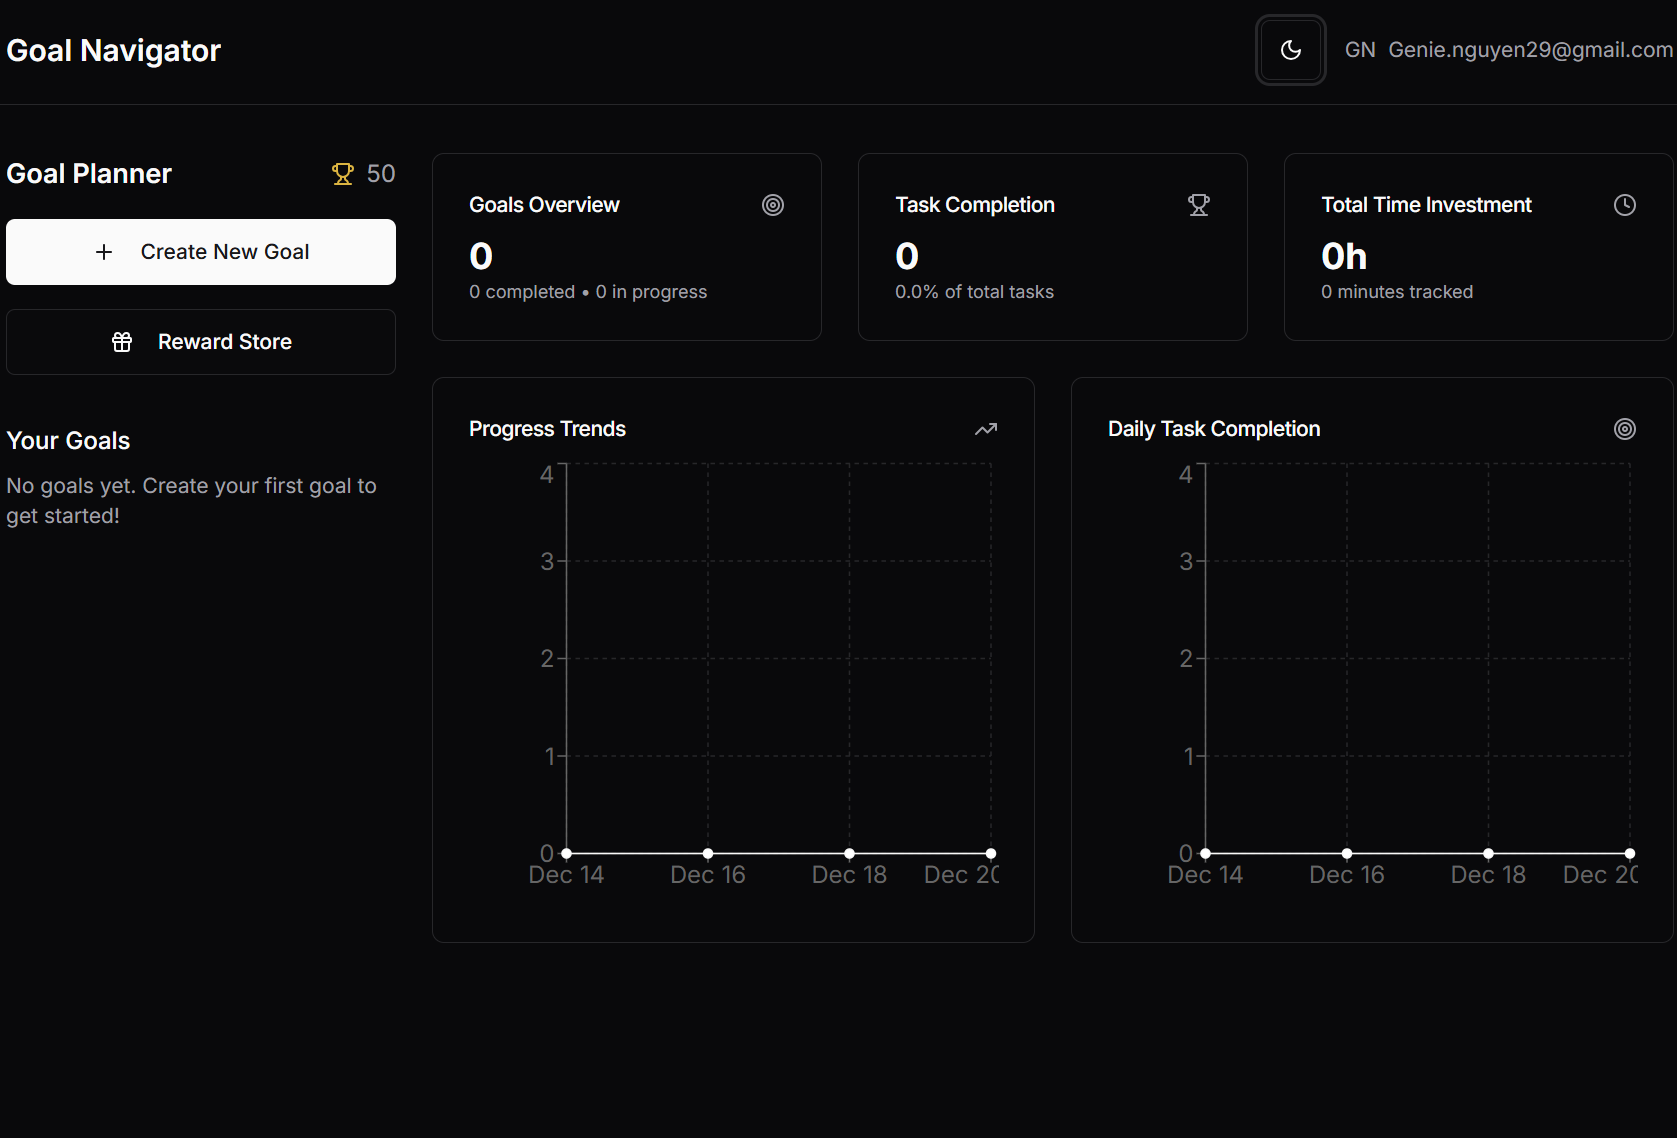
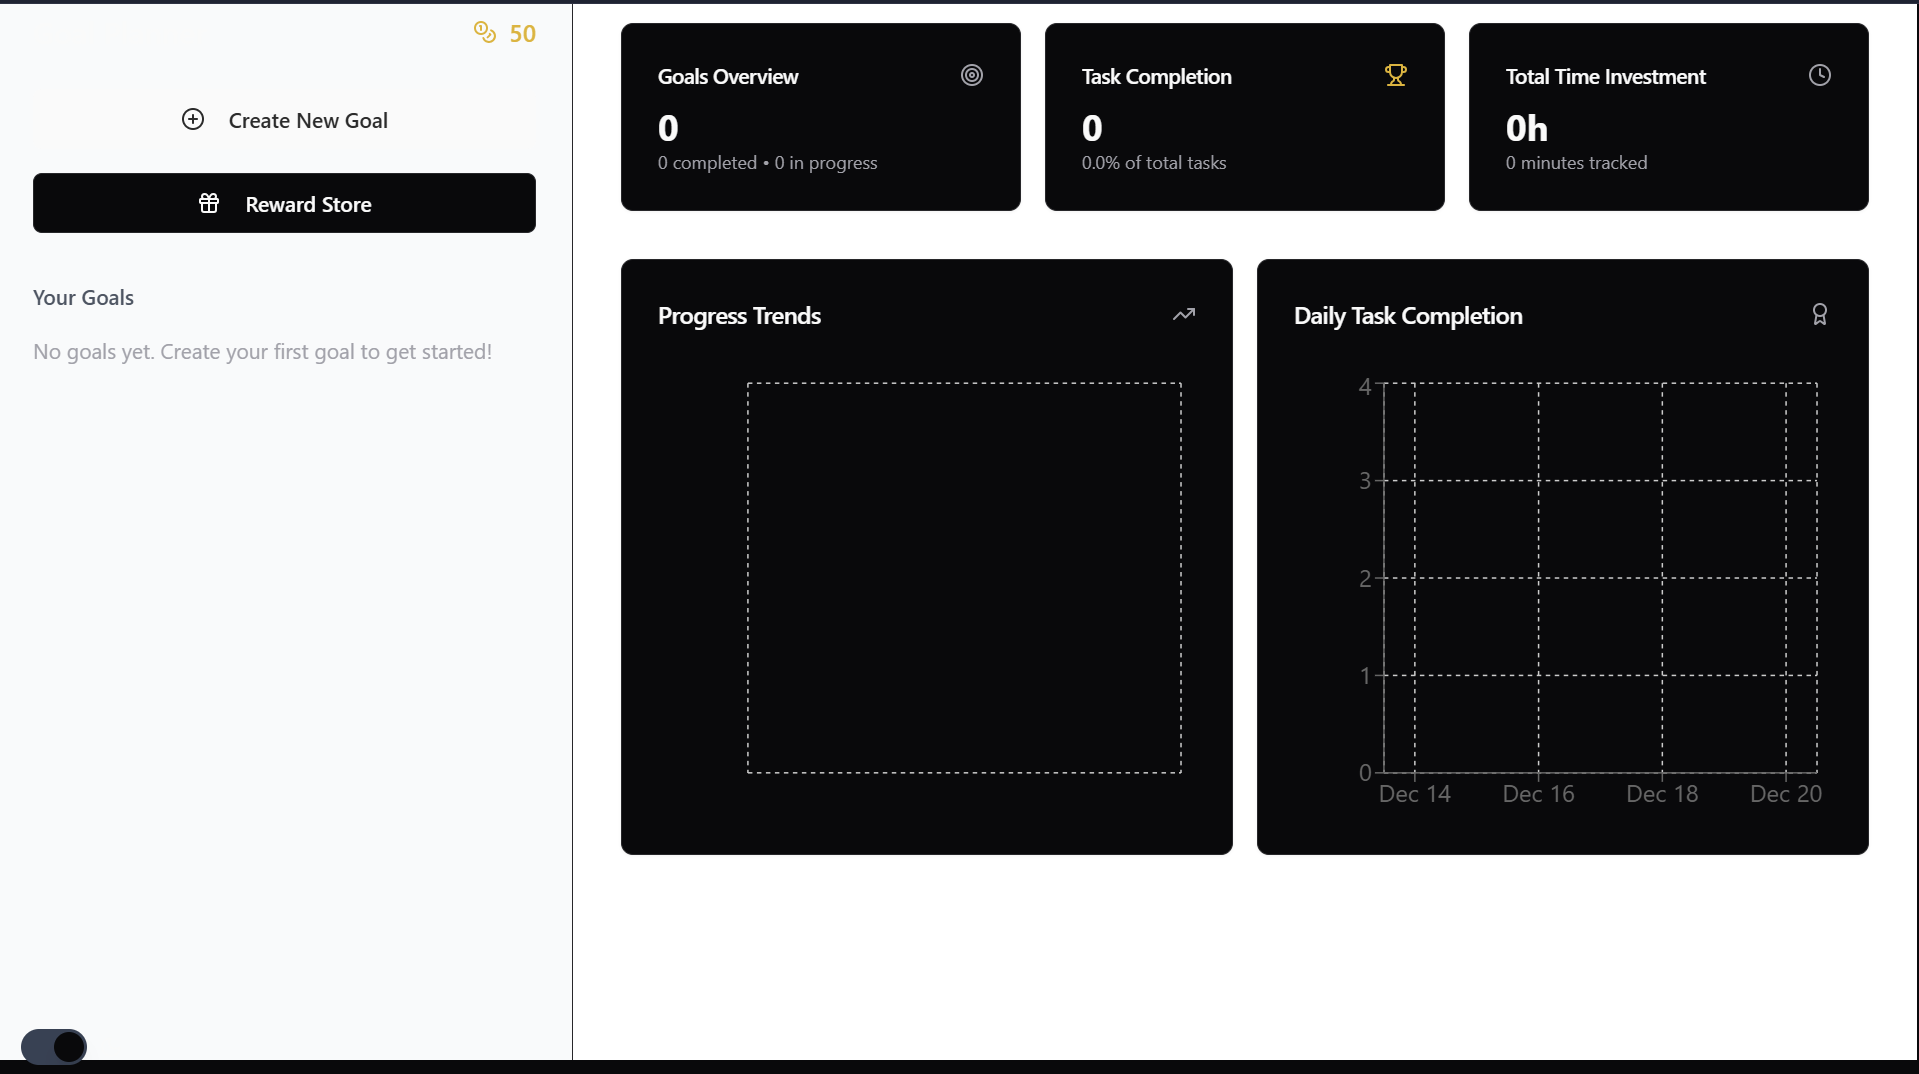
Agent query: Does the main content area now have a dark background that matches the screenshot?
Update default theme to dark mode and add dark mode styles.

Screenshot: https://storage.googleapis.com/screenshot-production-us-central1/5cbcd047-3b39-438f-8057-f5204b920970/0149ba4d-94f2-434b-b766-b0e0e4928ca8.jpg

diff --git a/client/src/index.css b/client/src/index.css
@@ -3,11 +3,25 @@
 @tailwind utilities;
 
 @layer base {
+  :root {
+    --background: 0 0% 100%;
+    --foreground: 222.2 84% 4.9%;
+  }
+
+  .dark {
+    --background: 0 0% 3.9%;
+    --foreground: 0 0% 98%;
+  }
+
   * {
     @apply border-border;
   }
 
   body {
-    @apply font-sans antialiased bg-background text-foreground;
+    @apply font-sans antialiased bg-background text-foreground min-h-screen;
+  }
+
+  .dark body {
+    @apply bg-black;
   }
 }

diff --git a/client/src/App.tsx b/client/src/App.tsx
@@ -16,7 +16,7 @@ function App() {
   const resetToken = urlParams.get('token');
 
   return (
-    <ThemeProvider defaultTheme="light">
+    <ThemeProvider defaultTheme="dark">
       {isLoading ? (
         <div className="min-h-screen flex items-center justify-center bg-background">
           <Loader2 className="h-8 w-8 animate-spin text-border" />
